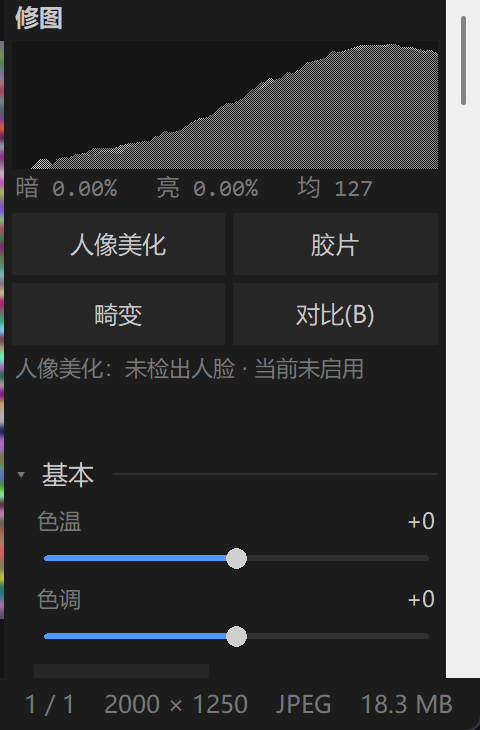
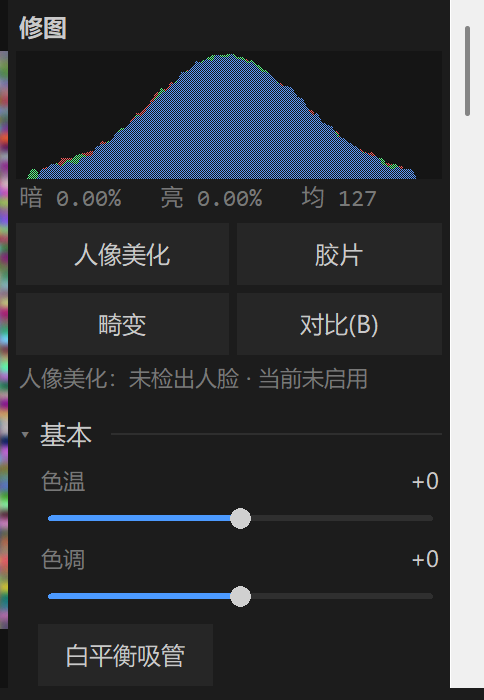
release 8.5.1: 面板对齐(标题/内容同一列) + 去掉 AI 进度条空占位(空档 100->18px)

diff --git a/docs/index.html b/docs/index.html
@@ -138,7 +138,7 @@
 </head>
 <body>
 <div class="top"><div class="topin">
-  <a class="brand" href="./"><img src="Prism.png" alt=""><b>Prism</b><i>8.5.0</i></a>
+  <a class="brand" href="./"><img src="Prism.png" alt=""><b>Prism</b><i>8.5.1</i></a>
   <nav class="menu">
     <div class="mi"><a href="#features">产品</a>
       <div class="sub">
@@ -170,11 +170,11 @@
     <div class="mi"><a href="#download">下载</a>
       <div class="sub">
         <span class="gh">Windows</span>
-        <a href="https://github.com/11ly322/Prism/releases/download/v8.5.0/Prism-Setup-8.5.0.exe" download><span style="display:inline-block;margin-left:6px;padding:1px 6px;border-radius:6px;font-size:11px;background:#2f7d32;color:#fff">完整支持</span>完整版 <i>39.9 MB</i></a>
-        <a href="https://github.com/11ly322/Prism/releases/download/v8.5.0/Prism-Viewer-Setup-8.5.0.exe" download>看图版（安装包） <i>39.9 MB</i></a>
+        <a href="https://github.com/11ly322/Prism/releases/download/v8.5.1/Prism-Setup-8.5.1.exe" download><span style="display:inline-block;margin-left:6px;padding:1px 6px;border-radius:6px;font-size:11px;background:#2f7d32;color:#fff">完整支持</span>完整版 <i>39.9 MB</i></a>
+        <a href="https://github.com/11ly322/Prism/releases/download/v8.5.1/Prism-Viewer-Setup-8.5.1.exe" download>看图版（安装包） <i>39.9 MB</i></a>
         <span class="gh">其它平台</span>
-        <a href="https://github.com/11ly322/Prism/releases/download/v8.5.0/Prism-macOS-8.5.0.zip" download><span style="display:inline-block;margin-left:6px;padding:1px 6px;border-radius:6px;font-size:11px;background:#8a6d1f;color:#fff">源码预览</span>macOS <i>源码运行</i></a>
-        <a href="https://github.com/11ly322/Prism/releases/download/v8.5.0/Prism-Linux-8.5.0.zip" download><span style="display:inline-block;margin-left:6px;padding:1px 6px;border-radius:6px;font-size:11px;background:#8a6d1f;color:#fff">源码预览</span>Linux <i>源码运行</i></a>
+        <a href="https://github.com/11ly322/Prism/releases/download/v8.5.1/Prism-macOS-8.5.1.zip" download><span style="display:inline-block;margin-left:6px;padding:1px 6px;border-radius:6px;font-size:11px;background:#8a6d1f;color:#fff">源码预览</span>macOS <i>源码运行</i></a>
+        <a href="https://github.com/11ly322/Prism/releases/download/v8.5.1/Prism-Linux-8.5.1.zip" download><span style="display:inline-block;margin-left:6px;padding:1px 6px;border-radius:6px;font-size:11px;background:#8a6d1f;color:#fff">源码预览</span>Linux <i>源码运行</i></a>
         <span class="sp"></span>
         <a href="#docs">说明文档</a>
         <a href="#verify">证书与校验</a>
@@ -189,22 +189,22 @@
     <p class="lead">打开快、切图快、调色准。支持尼康 NEF 与常见格式，内置曲线、HSL 与局部滤镜，还可以用插件扩展。</p>
     <div class="cta">
       <div class="spl">
-        <a class="btn" href="https://github.com/11ly322/Prism/releases/download/v8.5.0/Prism-Setup-8.5.0.exe" download>下载完整版</a>
+        <a class="btn" href="https://github.com/11ly322/Prism/releases/download/v8.5.1/Prism-Setup-8.5.1.exe" download>下载完整版</a>
         <button class="caret" aria-label="更多版本">▾</button>
         <div class="opts">
-          <a href="https://github.com/11ly322/Prism/releases/download/v8.5.0/Prism-Setup-8.5.0.exe" download><i>40.0 MB</i><b>Windows 完整版</b><span>安装包 · 含修图与插件</span></a>
-          <a href="https://github.com/11ly322/Prism/releases/download/v8.5.0/Prism-Viewer-Setup-8.5.0.exe" download><i>39.9 MB</i><b>Windows 看图版</b><span>安装包 · 纯浏览，与完整版同样装法</span></a>
-          <a href="https://github.com/11ly322/Prism/releases/download/v8.5.0/Prism-macOS-8.5.0.zip" download><i>149 KB</i><b>macOS</b><span>源码运行 · 需 Python 3</span></a>
-          <a href="https://github.com/11ly322/Prism/releases/download/v8.5.0/Prism-Linux-8.5.0.zip" download><i>149 KB</i><b>Linux</b><span>源码运行 · 带桌面项</span></a>
+          <a href="https://github.com/11ly322/Prism/releases/download/v8.5.1/Prism-Setup-8.5.1.exe" download><i>40.0 MB</i><b>Windows 完整版</b><span>安装包 · 含修图与插件</span></a>
+          <a href="https://github.com/11ly322/Prism/releases/download/v8.5.1/Prism-Viewer-Setup-8.5.1.exe" download><i>39.9 MB</i><b>Windows 看图版</b><span>安装包 · 纯浏览，与完整版同样装法</span></a>
+          <a href="https://github.com/11ly322/Prism/releases/download/v8.5.1/Prism-macOS-8.5.1.zip" download><i>149 KB</i><b>macOS</b><span>源码运行 · 需 Python 3</span></a>
+          <a href="https://github.com/11ly322/Prism/releases/download/v8.5.1/Prism-Linux-8.5.1.zip" download><i>149 KB</i><b>Linux</b><span>源码运行 · 带桌面项</span></a>
         </div>
       </div>
-      <div class="meta">版本 8.5.0<br>40.0 MB · Windows 10/11 64 位</div>
+      <div class="meta">版本 8.5.1<br>40.0 MB · Windows 10/11 64 位</div>
     </div>
     <p class="plats"><b>全部下载</b>
-      <a href="https://github.com/11ly322/Prism/releases/download/v8.5.0/Prism-Setup-8.5.0.exe" download>Windows 完整版</a><em>39.8 MB</em>
-      <a href="https://github.com/11ly322/Prism/releases/download/v8.5.0/Prism-Viewer-Setup-8.5.0.exe" download>Windows 看图版</a><em>39.9 MB</em>
-      <a href="https://github.com/11ly322/Prism/releases/download/v8.5.0/Prism-macOS-8.5.0.zip" download>macOS</a><em>104 KB</em>
-      <a href="https://github.com/11ly322/Prism/releases/download/v8.5.0/Prism-Linux-8.5.0.zip" download>Linux</a><em>105 KB</em>
+      <a href="https://github.com/11ly322/Prism/releases/download/v8.5.1/Prism-Setup-8.5.1.exe" download>Windows 完整版</a><em>39.8 MB</em>
+      <a href="https://github.com/11ly322/Prism/releases/download/v8.5.1/Prism-Viewer-Setup-8.5.1.exe" download>Windows 看图版</a><em>39.9 MB</em>
+      <a href="https://github.com/11ly322/Prism/releases/download/v8.5.1/Prism-macOS-8.5.1.zip" download>macOS</a><em>104 KB</em>
+      <a href="https://github.com/11ly322/Prism/releases/download/v8.5.1/Prism-Linux-8.5.1.zip" download>Linux</a><em>105 KB</em>
     </p>
   </header>
 
@@ -288,7 +288,7 @@
     <h3>安装</h3>
     <table>
       <tr><td class="grp" colspan="2">Windows</td></tr>
-      <tr><td>1</td><td>下载 <code>Prism-Setup-8.5.0.exe</code> 并双击</td></tr>
+      <tr><td>1</td><td>下载 <code>Prism-Setup-8.5.1.exe</code> 并双击</td></tr>
       <tr><td>2</td><td>选择安装方式（本机安装 / 就地解压）与位置</td></tr>
       <tr><td>3</td><td>可选建开始菜单与桌面快捷方式，完成后直接启动</td></tr>
       <tr><td class="grp" colspan="2">macOS</td></tr>
@@ -351,16 +351,16 @@
     <h2>下载与安装</h2>
     <table>
       <tr><td class="grp" colspan="2">Windows</td></tr>
-      <tr><td><a href="https://github.com/11ly322/Prism/releases/download/v8.5.0/Prism-Setup-8.5.0.exe" download>完整版安装包</a></td>
+      <tr><td><a href="https://github.com/11ly322/Prism/releases/download/v8.5.1/Prism-Setup-8.5.1.exe" download>完整版安装包</a></td>
           <td>39.8 MB · 含修图面板与插件</td></tr>
-      <tr><td><a href="https://github.com/11ly322/Prism/releases/download/v8.5.0/Prism-Viewer-Setup-8.5.0.exe" download>纯看图版（安装包）</a></td>
+      <tr><td><a href="https://github.com/11ly322/Prism/releases/download/v8.5.1/Prism-Viewer-Setup-8.5.1.exe" download>纯看图版（安装包）</a></td>
           <td>39.9 MB · 与完整版同样装法，含开始菜单与桌面快捷方式</td></tr>
-      <tr><td><a href="https://github.com/11ly322/Prism/releases/download/v8.5.0/Prism-Viewer-8.5.0.zip" download>纯看图版（便携）</a></td>
+      <tr><td><a href="https://github.com/11ly322/Prism/releases/download/v8.5.1/Prism-Viewer-8.5.1.zip" download>纯看图版（便携）</a></td>
           <td>29.9 MB · 解压即用，不写注册表</td></tr>
       <tr><td class="grp" colspan="2">macOS / Linux</td></tr>
-      <tr><td><a href="https://github.com/11ly322/Prism/releases/download/v8.5.0/Prism-macOS-8.5.0.zip" download>macOS 运行包</a></td>
+      <tr><td><a href="https://github.com/11ly322/Prism/releases/download/v8.5.1/Prism-macOS-8.5.1.zip" download>macOS 运行包</a></td>
           <td>104 KB · 源码运行，需 Python 3 + Pillow</td></tr>
-      <tr><td><a href="https://github.com/11ly322/Prism/releases/download/v8.5.0/Prism-Linux-8.5.0.zip" download>Linux 运行包</a></td>
+      <tr><td><a href="https://github.com/11ly322/Prism/releases/download/v8.5.1/Prism-Linux-8.5.1.zip" download>Linux 运行包</a></td>
           <td>105 KB · 带 .desktop，需 python3-tk</td></tr>
       <tr><td class="grp" colspan="2">系统要求（Windows 版）</td></tr>
       <tr><td>操作系统</td><td>Windows 10 / 11（64 位）</td></tr>
@@ -377,11 +377,11 @@
       <p class="cap" style="margin:0">2. 全屏为兼容模式（无边框最大化 + Esc 退出），不是系统级全屏。</p>
       <p class="cap" style="margin:0">3. macOS 与 Linux 是源码预览包，没有编译好的 .app / AppImage。</p>
     </div>
-    <p class="cap" style="margin-top:10px"><strong>便携版</strong>：<a href="https://github.com/11ly322/Prism/releases/download/v8.5.0/Prism-Portable-8.5.0.zip">Prism-Portable-8.5.0.zip</a>（完整版解压即用，不写注册表、不装开始菜单）</p>
+    <p class="cap" style="margin-top:10px"><strong>便携版</strong>：<a href="https://github.com/11ly322/Prism/releases/download/v8.5.1/Prism-Portable-8.5.1.zip">Prism-Portable-8.5.1.zip</a>（完整版解压即用，不写注册表、不装开始菜单）</p>
     <h3>如何安全绕过 SmartScreen</h3>
     <p class="cap" style="margin-top:0">安装包未做代码签名，所以 Windows 会提示「已保护你的电脑」。先校验文件，再决定是否运行：</p>
     <ol class="cap" style="margin:0 0 10px 18px;padding:0">
-      <li>在 PowerShell 里校验 SHA-256：<br><code>Get-FileHash .\Prism-Setup-8.5.0.exe -Algorithm SHA256</code><br>与页面上的 SHA-256 逐位比对。</li>
+      <li>在 PowerShell 里校验 SHA-256：<br><code>Get-FileHash .\Prism-Setup-8.5.1.exe -Algorithm SHA256</code><br>与页面上的 SHA-256 逐位比对。</li>
       <li>一致 → 双击安装包，点弹窗里的「更多信息」。</li>
       <li>确认发布者是「未知发布者」且哈希已核对无误后，点「仍要运行」。</li>
       <li>校验不一致 → 立刻删除，重新下载。</li>
@@ -397,14 +397,14 @@
       <tr><td>签发机构</td><td>Let&#39;s Encrypt（由 GitHub Pages 自动签发与续期）</td></tr>
       <tr><td>有效期至</td><td>2026-12-30</td></tr>
       <tr><td class="grp" colspan="2">安装包校验</td></tr>
-      <tr><td>文件</td><td>Prism-Setup-8.5.0.exe</td></tr>
-      <tr><td>SHA-256</td><td><code>D03A78E626418B69043EB3FB2E0ED5FA9002442FF7BD9D1161BE725E6A636F40</code></td></tr>
+      <tr><td>文件</td><td>Prism-Setup-8.5.1.exe</td></tr>
+      <tr><td>SHA-256</td><td><code>A519BA2E3ABB952CF07A2D1699670554AF705F6B0A28FFBD0E2D20B905FFBD25</code></td></tr>
     </table>
     <p class="cap">下载后可用 <code>certutil -hashfile 文件名 SHA256</code>（Windows）或 <code>shasum -a 256 文件名</code>（macOS/Linux）比对。</p>
   </section>
 
   <footer>
-    <div>Prism 8.5.0 · 简约图片查看器</div>
+    <div>Prism 8.5.1 · 简约图片查看器</div>
     <div><a href="#docs">说明文档</a></div>
   </footer>
 </div>

diff --git a/CHANGELOG.md b/CHANGELOG.md
@@ -4,6 +4,17 @@
 > 已一并改为 Prism，功能与时间线不变。代码里的 QPEApp / _QpeSlider 等内部
 > 标识符与旧配置迁移路径保持原名，改动会破坏兼容。
 
+## v8.5.1  （外观改造 2/3：面板对齐 + 去掉多余空白）
+
+- **分区标题与内容对齐到同一列**：实测调整前标题 x=39、滑杆行 x=30（差 9px），
+  调整后标题 x=29、内容 x=30（差 1px，视觉上成一条竖线）。
+- **修掉状态行到「基本」之间约 100px 的空白**：真因是 AI 进度条（5px）与
+  进度文字标签**一直 pack 着**，即使没有进度也占掉约 50 逻辑像素。
+  改成 `_sync_ai_extra()`：有进度才插到状态行下面（after=），没进度就
+  pack_forget。实测空档 100px -> **18px**（其中 8px 是分区上边距）。
+- 分区间距从 px(9) 收到令牌 SPACE_LG(8)，不再有奇数间距。
+- 面板改造后截图更新到 design/after/panel_zoom.png。
+
 ## v8.5.0  （外观改造 1/3：设计令牌 + 排版硬伤）
 
 第一阶段只做「让界面看起来不糙」的事，配色与圆角留到最后。

diff --git a/docs/CHANGELOG.md b/docs/CHANGELOG.md
@@ -4,6 +4,17 @@
 > 已一并改为 Prism，功能与时间线不变。代码里的 QPEApp / _QpeSlider 等内部
 > 标识符与旧配置迁移路径保持原名，改动会破坏兼容。
 
+## v8.5.1  （外观改造 2/3：面板对齐 + 去掉多余空白）
+
+- **分区标题与内容对齐到同一列**：实测调整前标题 x=39、滑杆行 x=30（差 9px），
+  调整后标题 x=29、内容 x=30（差 1px，视觉上成一条竖线）。
+- **修掉状态行到「基本」之间约 100px 的空白**：真因是 AI 进度条（5px）与
+  进度文字标签**一直 pack 着**，即使没有进度也占掉约 50 逻辑像素。
+  改成 `_sync_ai_extra()`：有进度才插到状态行下面（after=），没进度就
+  pack_forget。实测空档 100px -> **18px**（其中 8px 是分区上边距）。
+- 分区间距从 px(9) 收到令牌 SPACE_LG(8)，不再有奇数间距。
+- 面板改造后截图更新到 design/after/panel_zoom.png。
+
 ## v8.5.0  （外观改造 1/3：设计令牌 + 排版硬伤）
 
 第一阶段只做「让界面看起来不糙」的事，配色与圆角留到最后。
